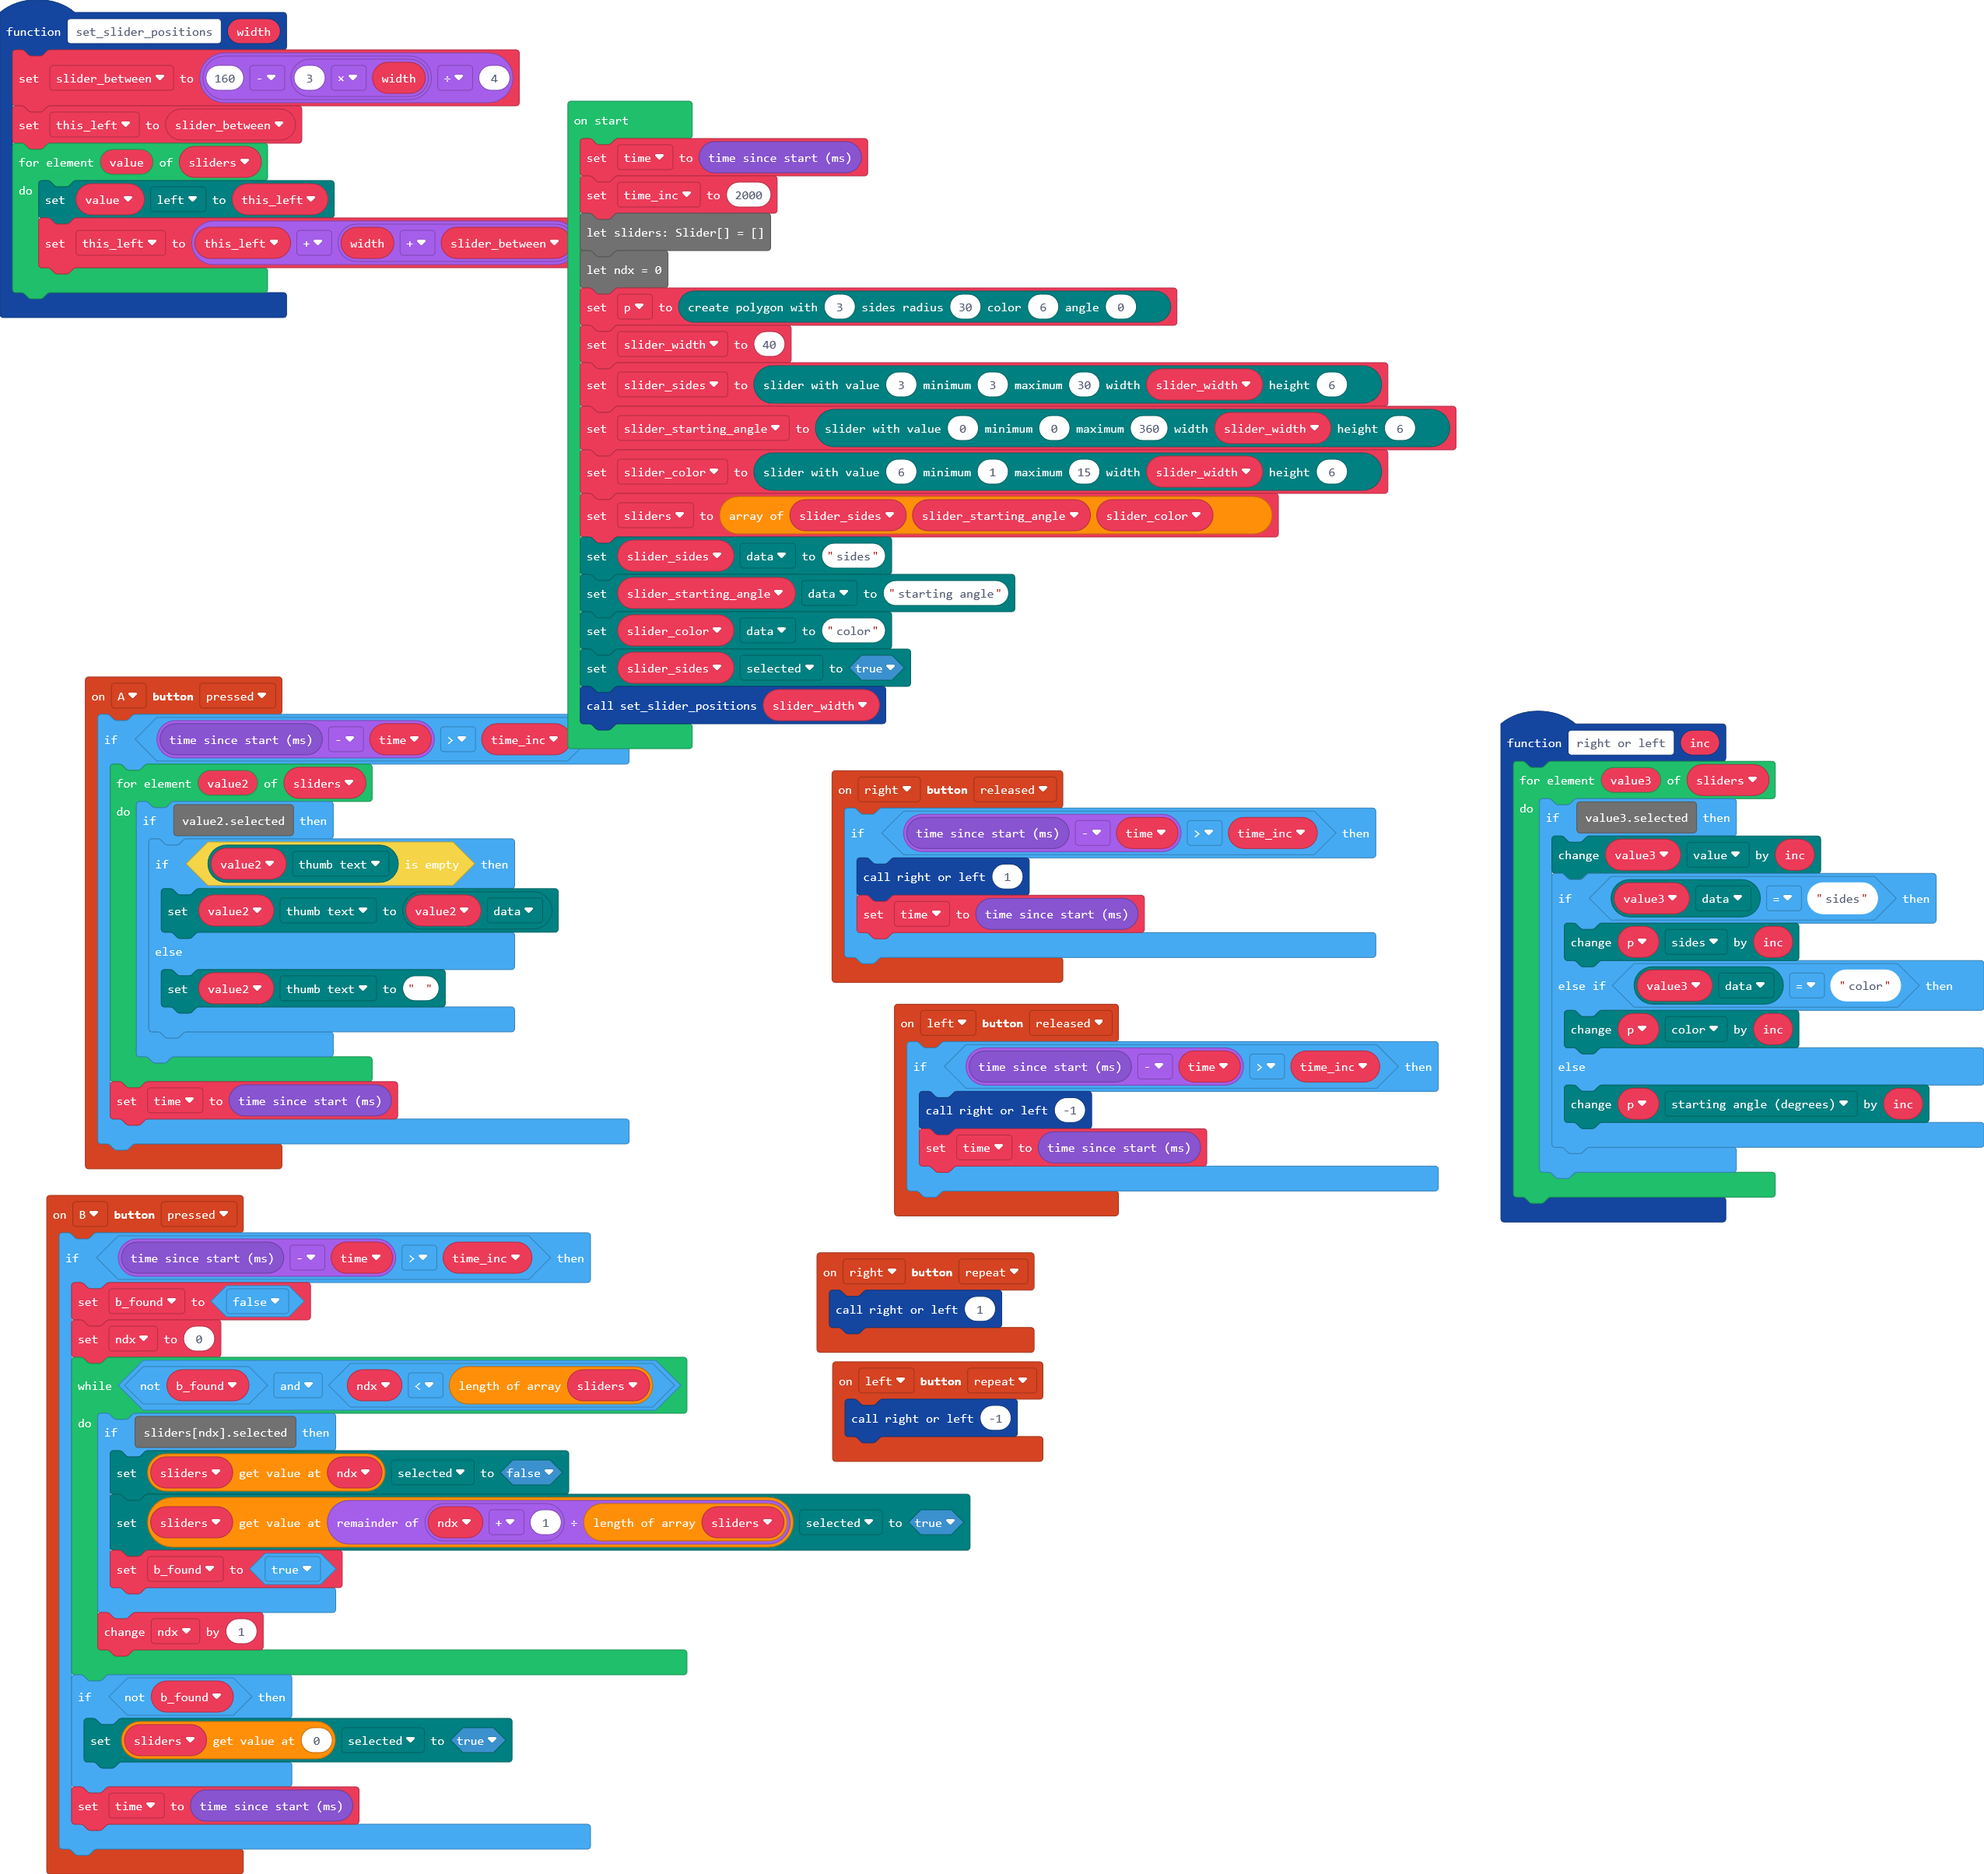
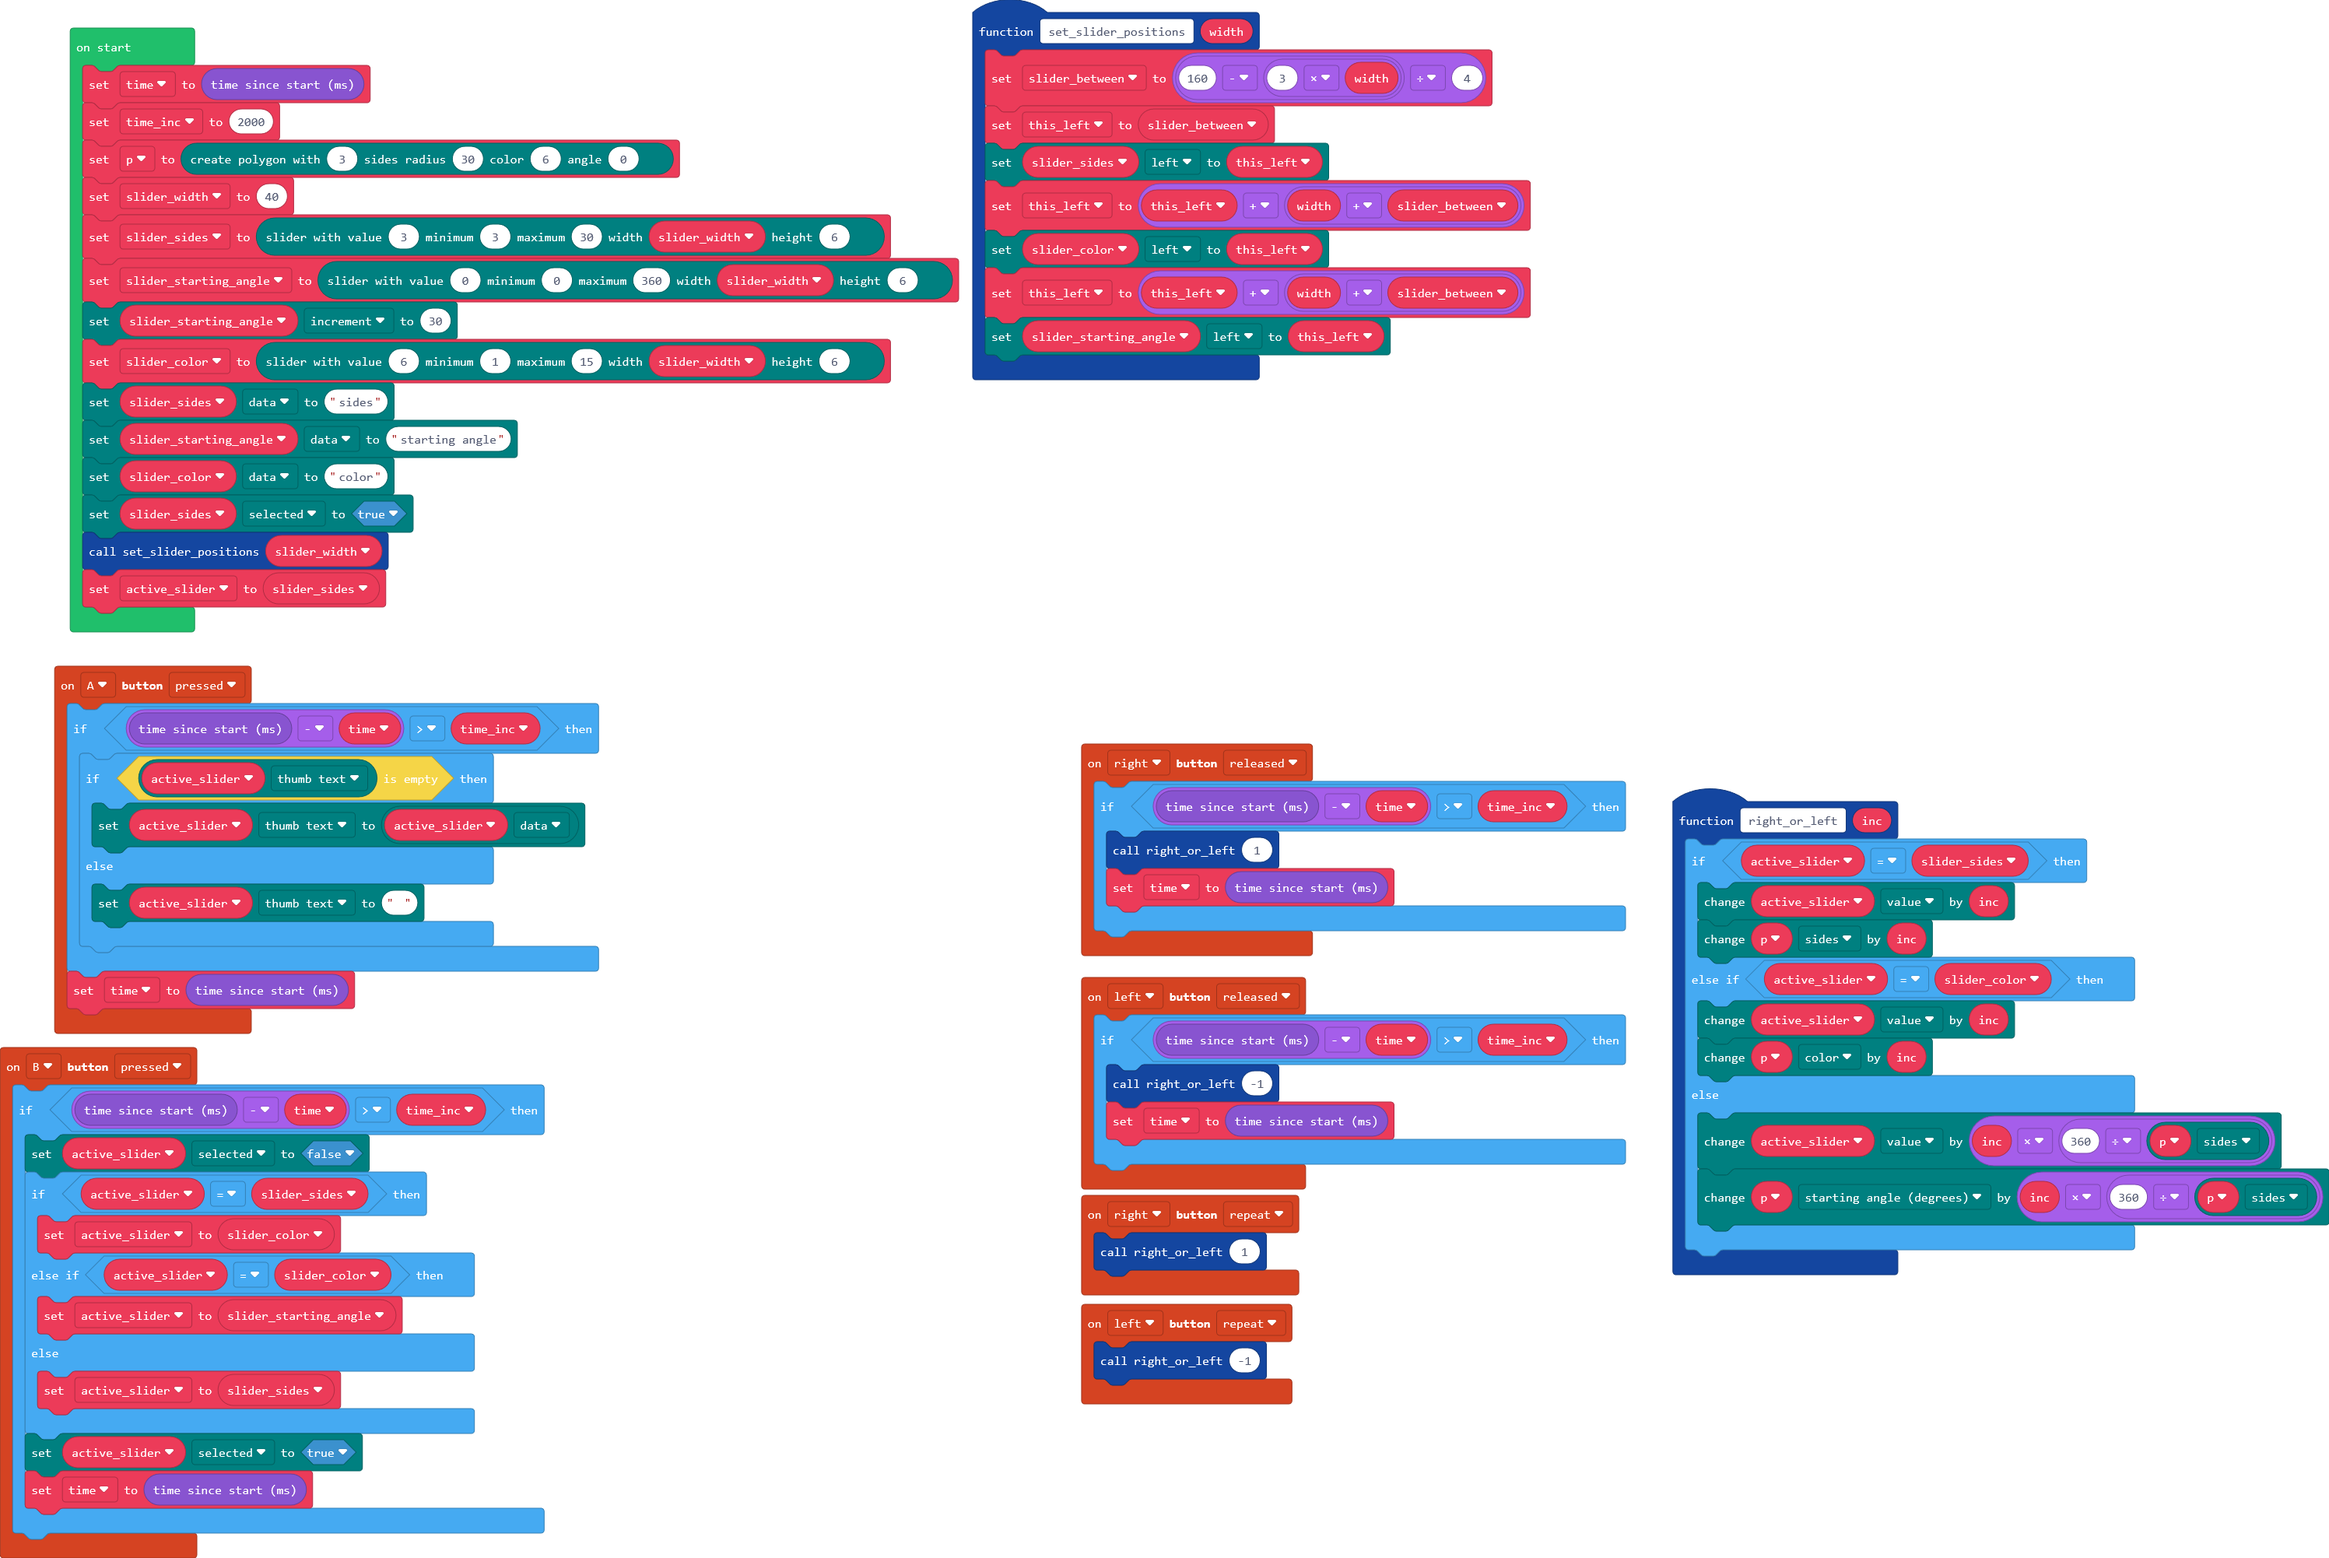
Update main.blocks, main.ts

diff --git a/main.ts b/main.ts
@@ -1,45 +1,28 @@
 controller.right.onEvent(ControllerButtonEvent.Repeated, function () {
     right_or_left(1)
 })
-function right_or_left (inc: number) {
-    for (let value3 of sliders) {
-        if (value3.selected) {
-            value3.value += inc
-            if (value3.data == "sides") {
-                p.sides += inc
-            } else if (value3.data == "color") {
-                p.color += inc
-            } else {
-                p.angle += inc
-            }
-        }
-    }
-}
 controller.B.onEvent(ControllerButtonEvent.Pressed, function () {
     if (game.runtime() - time > time_inc) {
-        b_found = false
-        ndx = 0
-        while (!(b_found) && ndx < sliders.length) {
-            if (sliders[ndx].selected) {
-                sliders[ndx].selected = false
-                sliders[(ndx + 1) % sliders.length].selected = true
-                b_found = true
-            }
-            ndx += 1
+        active_slider.selected = false
+        if (active_slider == slider_sides) {
+            active_slider = slider_color
+        } else if (active_slider == slider_color) {
+            active_slider = slider_starting_angle
+        } else {
+            active_slider = slider_sides
         }
-        if (!(b_found)) {
-            sliders[0].selected = true
-        }
+        active_slider.selected = true
         time = game.runtime()
     }
 })
 function set_slider_positions (width: number) {
     slider_between = (160 - 3 * width) / 4
     this_left = slider_between
-    for (let value of sliders) {
-        value.left = this_left
-        this_left = this_left + (width + slider_between)
-    }
+    slider_sides.left = this_left
+    this_left = this_left + (width + slider_between)
+    slider_color.left = this_left
+    this_left = this_left + (width + slider_between)
+    slider_starting_angle.left = this_left
 }
 controller.left.onEvent(ControllerButtonEvent.Released, function () {
     if (game.runtime() - time > time_inc) {
@@ -49,18 +32,26 @@ controller.left.onEvent(ControllerButtonEvent.Released, function () {
 })
 controller.A.onEvent(ControllerButtonEvent.Pressed, function () {
     if (game.runtime() - time > time_inc) {
-        for (let value2 of sliders) {
-            if (value2.selected) {
-                if (value2.thumb_text.isEmpty()) {
-                    value2.thumb_text = value2.data
-                } else {
-                    value2.thumb_text = ""
-                }
-            }
+        if (active_slider.thumb_text.isEmpty()) {
+            active_slider.thumb_text = active_slider.data
+        } else {
+            active_slider.thumb_text = ""
         }
-        time = game.runtime()
     }
+    time = game.runtime()
 })
+function right_or_left (inc: number) {
+    if (active_slider == slider_sides) {
+        active_slider.value += inc
+        p.sides += inc
+    } else if (active_slider == slider_color) {
+        active_slider.value += inc
+        p.color += inc
+    } else {
+        active_slider.value += inc * (360 / p.sides)
+        p.angle += inc * (360 / p.sides)
+    }
+}
 controller.right.onEvent(ControllerButtonEvent.Released, function () {
     if (game.runtime() - time > time_inc) {
         right_or_left(1)
@@ -72,22 +63,24 @@ controller.left.onEvent(ControllerButtonEvent.Repeated, function () {
 })
 let this_left = 0
 let slider_between = 0
-let b_found = false
+let active_slider: Slider = null
+let slider_color: Slider = null
+let slider_starting_angle: Slider = null
+let slider_sides: Slider = null
 let p: Polygon = null
 let time_inc = 0
 let time = 0
 time = game.runtime()
 time_inc = 2000
-let sliders: Slider[] = []
-let ndx = 0
 p = polygon.createPolygon(3, 30, 6, 0)
 let slider_width = 40
-let slider_sides = slider.create(3, 3, 30, slider_width, 6)
-let slider_starting_angle = slider.create(0, 0, 360, slider_width, 6)
-let slider_color = slider.create(6, 1, 15, slider_width, 6)
-sliders = [slider_sides, slider_starting_angle, slider_color]
+slider_sides = slider.create(3, 3, 30, slider_width, 6)
+slider_starting_angle = slider.create(0, 0, 360, slider_width, 6)
+slider_starting_angle.increment = 30
+slider_color = slider.create(6, 1, 15, slider_width, 6)
 slider_sides.data = "sides"
 slider_starting_angle.data = "starting angle"
 slider_color.data = "color"
 slider_sides.selected = true
 set_slider_positions(slider_width)
+active_slider = slider_sides
